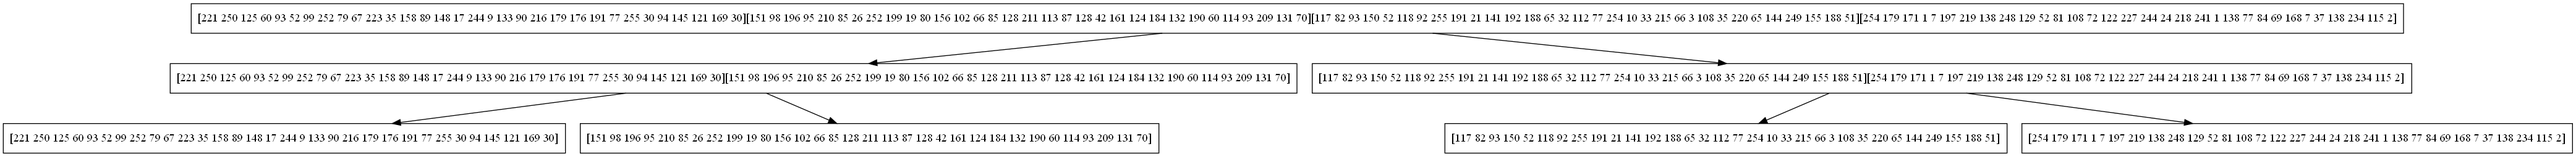
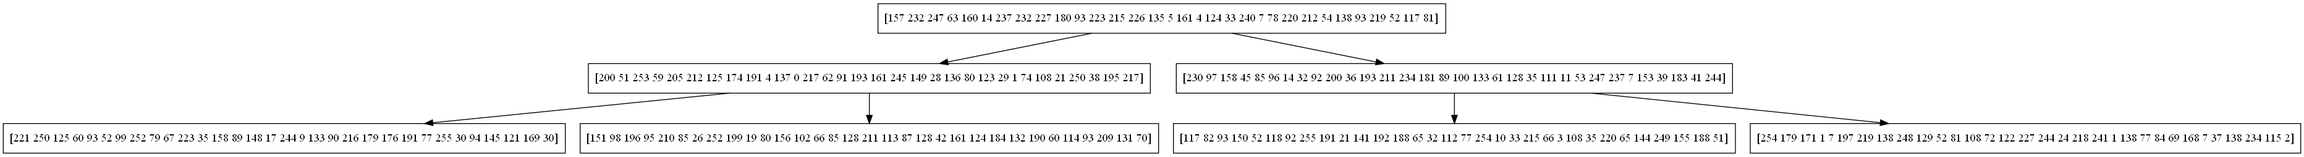
ya se jalan bien los arboles de merkle

diff --git a/Servidor/reader/dataStructures/arbolMerkle.go b/Servidor/reader/dataStructures/arbolMerkle.go
@@ -71,7 +71,7 @@ func (tree *MerkleTree) SumarHijos(node *NodoMerkle) {
 		tree.SumarHijos(node.derecha)
 	}
 	if node.izquierda.valor != "" && node.derecha.valor != "" {
-		node.valor = node.izquierda.valor + node.derecha.valor
+		node.valor = fmt.Sprintf("%v", sha256.Sum256([]byte(node.izquierda.valor+node.derecha.valor)))
 	}
 }
 
